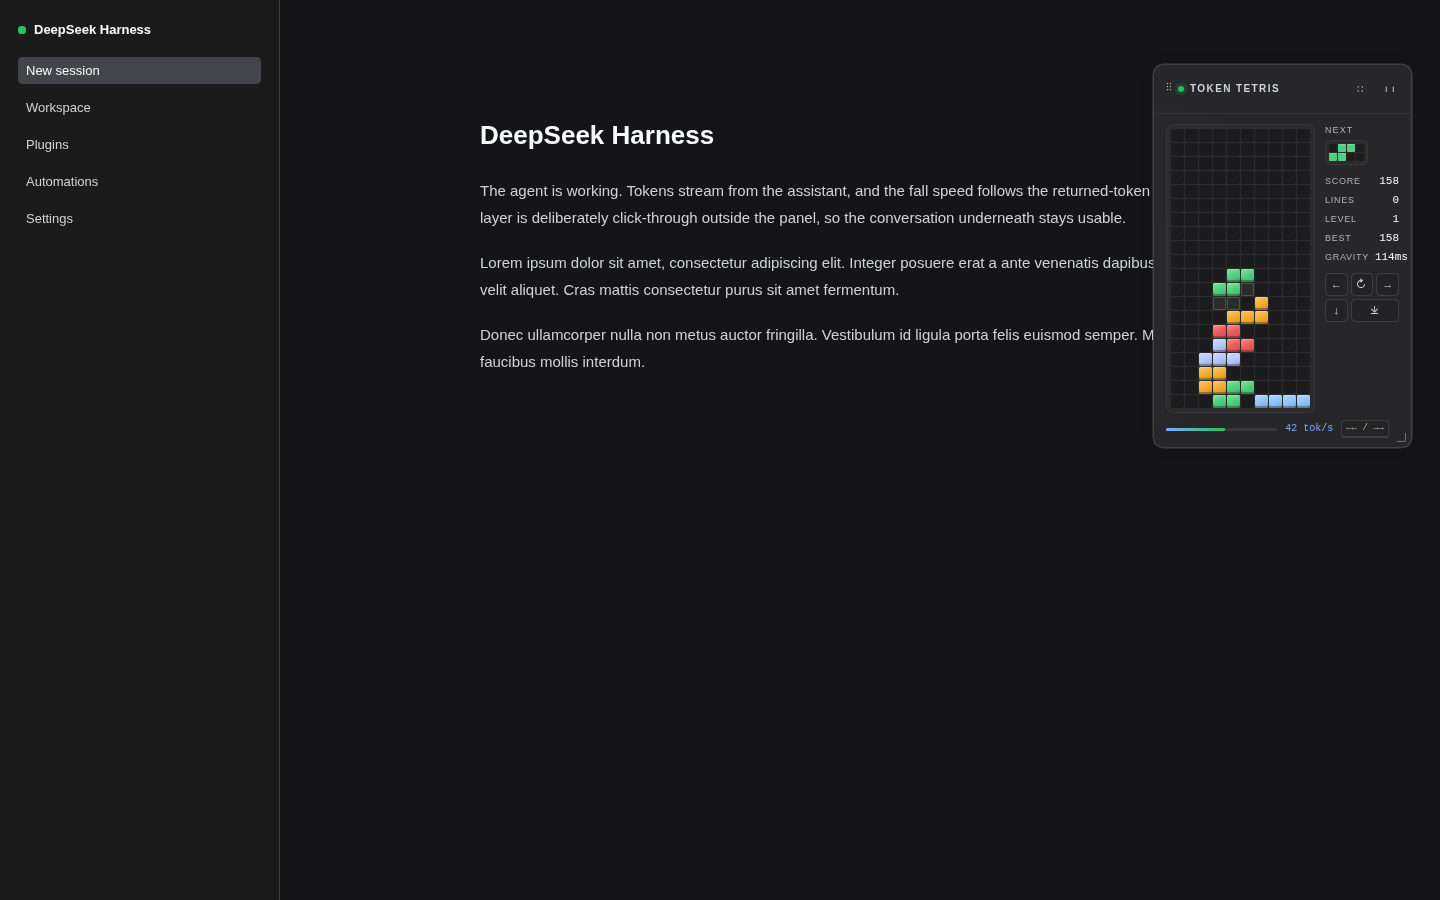
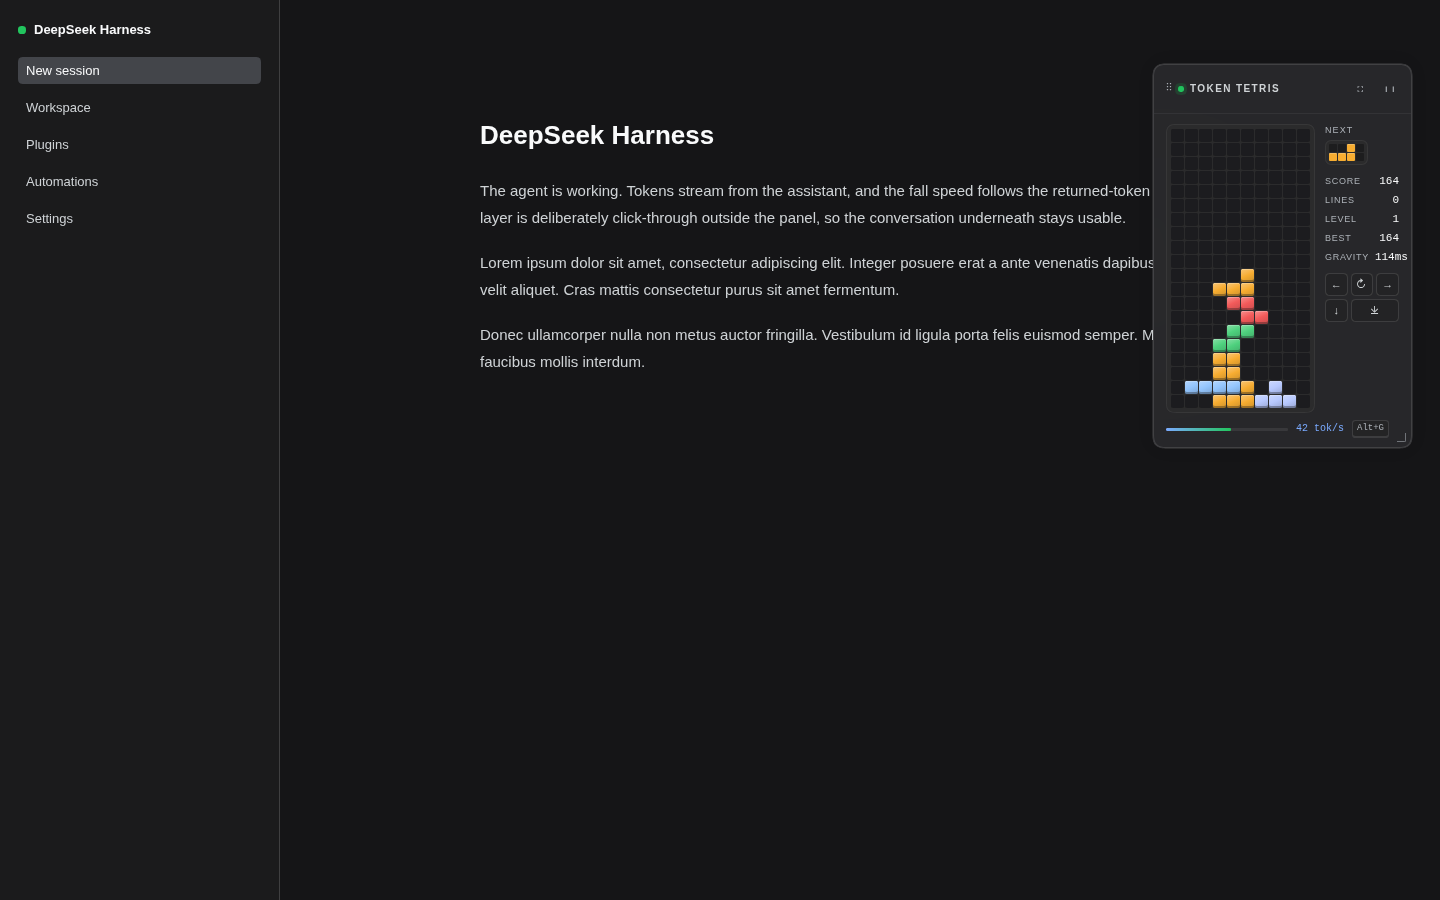
fix: remove double-arrow focus shortcut

Changed region(s): [[0.8125, 0.28, 0.9062, 0.4667], [0.9062, 0.4667, 0.9375, 0.4978], [0.9062, 0.1556, 0.9375, 0.1867]]

diff --git a/lib/client.js b/lib/client.js
@@ -682,10 +682,13 @@
         };
       }, []);
       import_react.useEffect(() => {
-        let lastArrow = null;
-        const focusGame = (event) => {
+        const onFocusShortcut = (event) => {
+          if (!event.altKey || event.ctrlKey || event.metaKey || event.shiftKey)
+            return;
+          if (event.code !== "KeyG" && event.key.toLowerCase() !== "g")
+            return;
           const panel = panelRef.current;
-          if (panel === null || panel.contains(document.activeElement))
+          if (panel === null)
             return;
           const modal = document.querySelector('[role="dialog"][aria-modal="true"]');
           if (modal !== null && !modal.closest("[data-token-tetris]"))
@@ -693,49 +696,8 @@
           event.preventDefault();
           panel.focus({ preventScroll: true });
         };
-        const onFocusShortcut = (event) => {
-          if (event.defaultPrevented)
-            return;
-          const panel = panelRef.current;
-          if (panel === null)
-            return;
-          const altOnly = event.altKey && !event.ctrlKey && !event.metaKey && !event.shiftKey;
-          if (altOnly && (event.code === "KeyG" || event.key.toLowerCase() === "g")) {
-            lastArrow = null;
-            focusGame(event);
-            return;
-          }
-          if (event.altKey || event.ctrlKey || event.metaKey || event.shiftKey) {
-            lastArrow = null;
-            return;
-          }
-          if (event.repeat)
-            return;
-          if (event.key !== "ArrowLeft" && event.key !== "ArrowRight") {
-            lastArrow = null;
-            return;
-          }
-          if (panel.contains(document.activeElement)) {
-            lastArrow = null;
-            return;
-          }
-          const now = performance.now();
-          if (lastArrow !== null && lastArrow.key === event.key && now - lastArrow.at <= 400) {
-            lastArrow = null;
-            focusGame(event);
-            return;
-          }
-          lastArrow = { key: event.key, at: now };
-        };
-        const onPointerDown = () => {
-          lastArrow = null;
-        };
         window.addEventListener("keydown", onFocusShortcut, true);
-        window.addEventListener("pointerdown", onPointerDown, true);
-        return () => {
-          window.removeEventListener("keydown", onFocusShortcut, true);
-          window.removeEventListener("pointerdown", onPointerDown, true);
-        };
+        return () => window.removeEventListener("keydown", onFocusShortcut, true);
       }, []);
       import_react.useEffect(() => {
         const panel = panelRef.current;
@@ -1534,10 +1496,10 @@
       gameOver: "Game over",
       finalScore: "Score {score}",
       hint: "← → ↑ ↓ ␣",
-      "hint.full": "←/→ twice or Alt+G focus · ← → move · ↑ rotate · ↓ soft drop · space hard drop · P pause · F fullscreen",
-      "focus.shortcut": "←← / →→",
+      "hint.full": "Alt+G focus · ← → move · ↑ rotate · ↓ soft drop · space hard drop · P pause · F fullscreen",
+      "focus.shortcut": "Alt+G",
       "focus.hint.title": "Game unfocused",
-      "focus.hint.body": "Press ← or → twice, or Alt+G, to play",
+      "focus.hint.body": "Click the panel or press Alt+G to play",
       "aria.region": "Token Tetris game",
       "aria.board": "Tetris board. {score} points, {lines} lines.",
       "aria.pause": "Pause game",
@@ -1572,10 +1534,10 @@
       gameOver: "游戏结束",
       finalScore: "得分 {score}",
       hint: "← → ↑ ↓ ␣",
-      "hint.full": "连续按两次 ←/→ 或 Alt+G 聚焦 · ← → 移动 · ↑ 旋转 · ↓ 软降 · 空格 硬降 · P 暂停 · F 全屏",
-      "focus.shortcut": "←← / →→",
+      "hint.full": "Alt+G 聚焦 · ← → 移动 · ↑ 旋转 · ↓ 软降 · 空格 硬降 · P 暂停 · F 全屏",
+      "focus.shortcut": "Alt+G",
       "focus.hint.title": "游戏未聚焦",
-      "focus.hint.body": "连续按两次 ← 或 →，或按 Alt+G 开始操作",
+      "focus.hint.body": "点击面板或按 Alt+G 开始操作",
       "aria.region": "TOKEN 俄罗斯方块",
       "aria.board": "俄罗斯方块棋盘。得分 {score}，{lines} 行。",
       "aria.pause": "暂停游戏",

diff --git a/src/client/TokenTetrisOverlay.tsx b/src/client/TokenTetrisOverlay.tsx
@@ -400,55 +400,18 @@ function TetrisGame({ t, tokensPerSecond }: TetrisGameProps) {
   }, [])
 
   useEffect(() => {
-    let lastArrow: { key: string; at: number } | null = null
-    const focusGame = (event: KeyboardEvent): void => {
+    const onFocusShortcut = (event: KeyboardEvent): void => {
+      if (!event.altKey || event.ctrlKey || event.metaKey || event.shiftKey) return
+      if (event.code !== 'KeyG' && event.key.toLowerCase() !== 'g') return
       const panel = panelRef.current
-      if (panel === null || panel.contains(document.activeElement)) return
+      if (panel === null) return
       const modal = document.querySelector('[role="dialog"][aria-modal="true"]')
       if (modal !== null && !modal.closest('[data-token-tetris]')) return
       event.preventDefault()
       panel.focus({ preventScroll: true })
     }
-    const onFocusShortcut = (event: KeyboardEvent): void => {
-      if (event.defaultPrevented) return
-      const panel = panelRef.current
-      if (panel === null) return
-      const altOnly = event.altKey && !event.ctrlKey && !event.metaKey && !event.shiftKey
-      if (altOnly && (event.code === 'KeyG' || event.key.toLowerCase() === 'g')) {
-        lastArrow = null
-        focusGame(event)
-        return
-      }
-      if (event.altKey || event.ctrlKey || event.metaKey || event.shiftKey) {
-        lastArrow = null
-        return
-      }
-      if (event.repeat) return
-      if (event.key !== 'ArrowLeft' && event.key !== 'ArrowRight') {
-        lastArrow = null
-        return
-      }
-      if (panel.contains(document.activeElement)) {
-        lastArrow = null
-        return
-      }
-      const now = performance.now()
-      if (lastArrow !== null && lastArrow.key === event.key && now - lastArrow.at <= 400) {
-        lastArrow = null
-        focusGame(event)
-        return
-      }
-      lastArrow = { key: event.key, at: now }
-    }
-    const onPointerDown = (): void => {
-      lastArrow = null
-    }
     window.addEventListener('keydown', onFocusShortcut, true)
-    window.addEventListener('pointerdown', onPointerDown, true)
-    return () => {
-      window.removeEventListener('keydown', onFocusShortcut, true)
-      window.removeEventListener('pointerdown', onPointerDown, true)
-    }
+    return () => window.removeEventListener('keydown', onFocusShortcut, true)
   }, [])
 
   useEffect(() => {

diff --git a/src/client/locale.ts b/src/client/locale.ts
@@ -21,10 +21,10 @@ export const EN: Record<string, string> = {
   'gameOver': 'Game over',
   'finalScore': 'Score {score}',
   hint: '← → ↑ ↓ ␣',
-  'hint.full': '←/→ twice or Alt+G focus · ← → move · ↑ rotate · ↓ soft drop · space hard drop · P pause · F fullscreen',
-  'focus.shortcut': '←← / →→',
+  'hint.full': 'Alt+G focus · ← → move · ↑ rotate · ↓ soft drop · space hard drop · P pause · F fullscreen',
+  'focus.shortcut': 'Alt+G',
   'focus.hint.title': 'Game unfocused',
-  'focus.hint.body': 'Press ← or → twice, or Alt+G, to play',
+  'focus.hint.body': 'Click the panel or press Alt+G to play',
   'aria.region': 'Token Tetris game',
   'aria.board': 'Tetris board. {score} points, {lines} lines.',
   'aria.pause': 'Pause game',
@@ -60,10 +60,10 @@ export const ZH: Record<string, string> = {
   'gameOver': '游戏结束',
   'finalScore': '得分 {score}',
   hint: '← → ↑ ↓ ␣',
-  'hint.full': '连续按两次 ←/→ 或 Alt+G 聚焦 · ← → 移动 · ↑ 旋转 · ↓ 软降 · 空格 硬降 · P 暂停 · F 全屏',
-  'focus.shortcut': '←← / →→',
+  'hint.full': 'Alt+G 聚焦 · ← → 移动 · ↑ 旋转 · ↓ 软降 · 空格 硬降 · P 暂停 · F 全屏',
+  'focus.shortcut': 'Alt+G',
   'focus.hint.title': '游戏未聚焦',
-  'focus.hint.body': '连续按两次 ← 或 →，或按 Alt+G 开始操作',
+  'focus.hint.body': '点击面板或按 Alt+G 开始操作',
   'aria.region': 'TOKEN 俄罗斯方块',
   'aria.board': '俄罗斯方块棋盘。得分 {score}，{lines} 行。',
   'aria.pause': '暂停游戏',

diff --git a/README.md b/README.md
@@ -22,10 +22,10 @@
 - **自动聚焦 / 失焦暂停**：面板出现时自动获取焦点，并在约 2.5s 内多次重试，避免首次加载或发送消息后聊天输入框抢回焦点；面板失去焦点、窗口 blur 或标签页隐藏时自动暂停；未聚焦时面板顶部会显示明显的操作提示。重新点击面板或按 `P` 继续。
 - **主题**：面板、文字、边框、阴影、按钮全部使用 `--dsw-*` 语义 token；深色模式通过 `body[data-ds-dark-theme]` 自动切换。
 - **不阻塞对话**：注册在 `shell.overlay`（frame 级浮动层）。浮层本身是 click-through 的，只有游戏面板接收指针事件。
-- **速率显示**：底部进度条右侧显示当前 tok/s 与 `←← / →→` 聚焦提示。
+- **速率显示**：底部进度条右侧显示当前 tok/s 与 `Alt+G` 聚焦提示。
 - **可拖动 / 可缩放**：拖动标题栏移动窗口，拖动右下角手柄缩放棋盘；`cell` 大小与位置会保存到浏览器 `localStorage`（`dsh.token-tetris.layout.v1`），下次运行继续使用。
 - **全屏**：点击标题栏的全屏按钮或按 `F`，以半透明、带背景模糊的浮层覆盖整个聊天列，在聊天窗口前方放大游戏；侧栏仍保持可见。点击面板外或按 `Escape` 退出。
-- **操作**：点击游戏面板获得焦点后，`←/→` 移动、`↑` 旋转、`↓` 软降、`Space` 硬降、`P` 暂停、`R` 重开、`F` 全屏、`Escape` 退出全屏/暂停；**连续按两次 `←` 或 `→`**，或按 `Alt+G`，可从任意位置聚焦游戏；也提供屏幕按钮。若焦点在输入框/编辑器里，游戏不会抢键盘。
+- **操作**：点击游戏面板获得焦点后，`←/→` 移动、`↑` 旋转、`↓` 软降、`Space` 硬降、`P` 暂停、`R` 重开、`F` 全屏、`Escape` 退出全屏/暂停；按 `Alt+G` 可从任意位置聚焦游戏；也提供屏幕按钮。若焦点在输入框/编辑器里，游戏不会抢键盘。
 - **最高分**：存在浏览器 `localStorage`，key 为 `dsh.token-tetris.high-score.v1`。
 
 ## 安装
